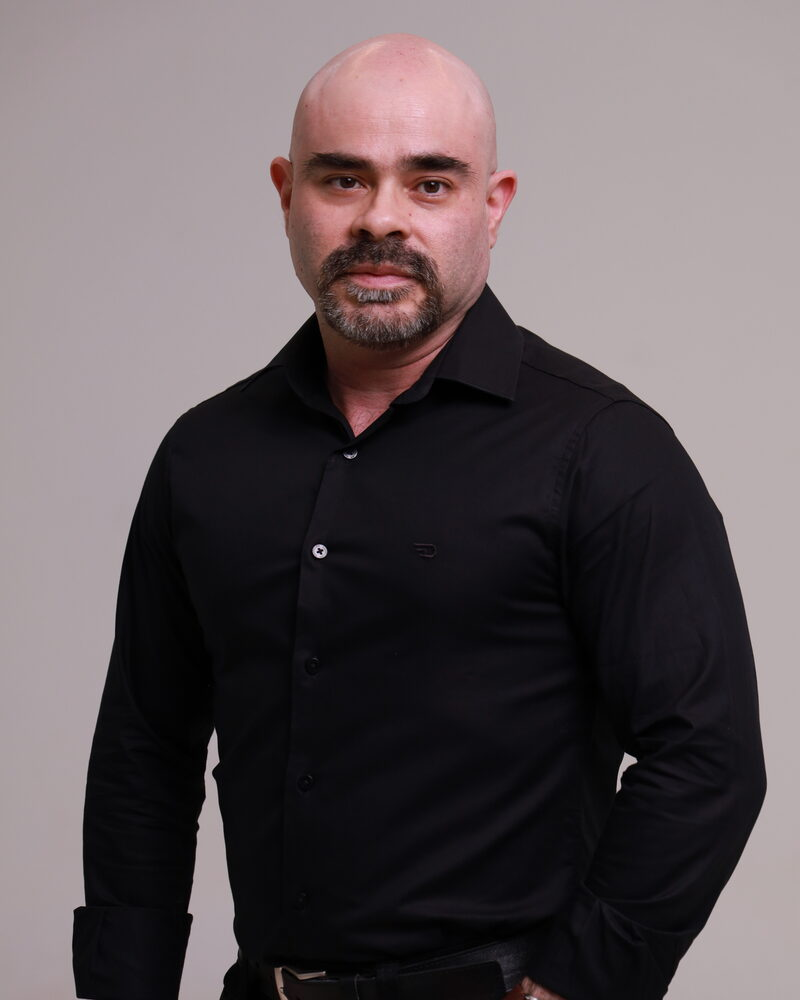
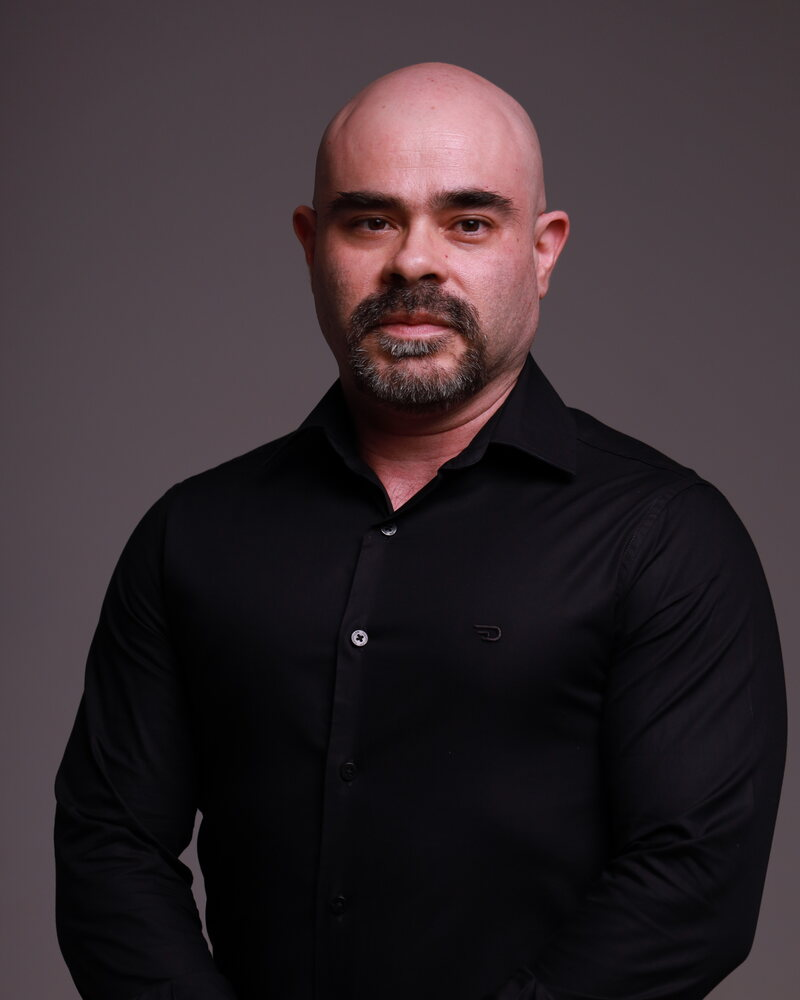
3 fotos distintas (hero 0005 / sobre 0012 / CTA 0043); degradê do CTA na seção fundindo na silhueta

diff --git a/style.css b/style.css
@@ -379,34 +379,31 @@ p{margin:0}
 
 /* SEÇÃO 8 — CTA final (Spotlight) ------------------------- */
 .finale{position:relative;isolation:isolate;overflow:hidden;color:var(--cream);
-  background:radial-gradient(120% 90% at 68% 28%,var(--green-800),var(--green-950) 72%);
+  background:radial-gradient(108% 125% at 82% 33%,#010302 0%,#05130e 35%,var(--green-950) 58%,var(--green-900) 100%);
   padding:clamp(70px,12vh,150px) 0 0}
-.finale__glow{position:absolute;left:42%;top:30%;width:80vw;max-width:760px;height:80vw;max-height:760px;
+.finale__glow{position:absolute;left:34%;top:30%;width:80vw;max-width:720px;height:80vw;max-height:720px;
   transform:translate(-50%,-50%);z-index:-1;
-  background:radial-gradient(circle,color-mix(in srgb,var(--gold-500) 22%,transparent),transparent 62%);
+  background:radial-gradient(circle,color-mix(in srgb,var(--gold-500) 20%,transparent),transparent 62%);
   filter:blur(10px);animation:glowPulse 7s ease-in-out infinite}
-.finale__rays{position:absolute;inset:0;width:100%;height:100%;color:var(--gold-400);opacity:.1;z-index:-1}
-.finale__inner{display:grid;grid-template-columns:1.05fr .82fr;gap:clamp(24px,5vw,56px);align-items:end;max-width:var(--maxw);margin-inline:auto;padding-inline:var(--gutter)}
+.finale__rays{position:absolute;inset:0;width:100%;height:100%;color:var(--gold-400);opacity:.08;z-index:-1}
+.finale__inner{display:grid;grid-template-columns:1.08fr .8fr;gap:clamp(24px,5vw,56px);align-items:end;max-width:var(--maxw);margin-inline:auto;padding-inline:var(--gutter)}
 .finale__text{display:flex;flex-direction:column;align-items:flex-start;gap:1.05rem;max-width:34ch;padding-bottom:clamp(72px,12vh,140px)}
 .finale h2{font-size:clamp(2.1rem,4.5vw,3.5rem);font-weight:480;line-height:1.05;margin:.2rem 0}
 .finale h2 em{font-style:italic;color:var(--gold-400)}
 .finale p{font-size:1.08rem;color:color-mix(in srgb,var(--cream) 82%,transparent);max-width:42ch}
 .finale__micro{font-size:.9rem;color:color-mix(in srgb,var(--cream) 66%,transparent)}
-.finale__photo{position:relative;margin:0;align-self:end;justify-self:center;width:100%;max-width:430px}
-.finale__photo img{display:block;width:100%;height:auto}
-.finale__photo::after{content:"";position:absolute;inset:0;pointer-events:none;
-  background:
-    linear-gradient(to top,var(--green-950) 1%,transparent 46%),
-    linear-gradient(to right,var(--green-950),transparent 34%),
-    linear-gradient(to bottom,color-mix(in srgb,var(--green-950) 88%,transparent),transparent 16%),
-    linear-gradient(to left,color-mix(in srgb,var(--green-950) 72%,transparent),transparent 14%)}
+.finale__photo{position:relative;margin:0;align-self:end;justify-self:center;width:100%;max-width:450px}
+.finale__photo img{display:block;width:100%;height:auto;
+  -webkit-mask-image:linear-gradient(to bottom,transparent 0%,#000 7%,#000 55%,transparent 90%);
+  mask-image:linear-gradient(to bottom,transparent 0%,#000 7%,#000 55%,transparent 90%)}
 .btn--lg{padding:1.2rem 2.3rem;font-size:1.1rem}
 @media (max-width:760px){
+  .finale{background:radial-gradient(150% 86% at 50% 84%,#010302 0%,#05130e 34%,var(--green-950) 60%,var(--green-900) 100%)}
   .finale__inner{grid-template-columns:1fr;gap:0}
   .finale__text{align-items:center;text-align:center;max-width:none;padding-bottom:clamp(28px,5vh,46px)}
   .finale__text .kicker::before{display:none}
   .finale p{margin-inline:auto}
-  .finale__photo{justify-self:center;max-width:300px}
+  .finale__photo{justify-self:center;max-width:320px}
 }
 
 /* FOOTER -------------------------------------------------- */

diff --git a/index.html b/index.html
@@ -24,7 +24,7 @@ j=d.createElement(s),dl=l!='dataLayer'?'&l='+l:'';j.async=true;j.src=
 <link rel="preconnect" href="https://fonts.gstatic.com" crossorigin>
 <link href="https://fonts.googleapis.com/css2?family=Fraunces:ital,opsz,wght@0,9..144,400..600;1,9..144,400..600&family=DM+Sans:opsz,wght@9..40,400..700&display=swap" rel="stylesheet">
 
-<link rel="stylesheet" href="/style.css?v=6">
+<link rel="stylesheet" href="/style.css?v=7">
 </head>
 <body>
 <!-- Google Tag Manager (noscript) -->

diff --git a/politica-de-privacidade/index.html b/politica-de-privacidade/index.html
@@ -18,7 +18,7 @@ j=d.createElement(s),dl=l!='dataLayer'?'&l='+l:'';j.async=true;j.src=
 <link rel="preconnect" href="https://fonts.googleapis.com">
 <link rel="preconnect" href="https://fonts.gstatic.com" crossorigin>
 <link href="https://fonts.googleapis.com/css2?family=Fraunces:ital,opsz,wght@0,9..144,400..600;1,9..144,400..600&family=DM+Sans:opsz,wght@9..40,400..700&display=swap" rel="stylesheet">
-<link rel="stylesheet" href="/style.css?v=6">
+<link rel="stylesheet" href="/style.css?v=7">
 <style>
   .legal{max-width:760px;margin-inline:auto;padding:clamp(110px,16vh,160px) var(--gutter) 80px;color:var(--paper-text)}
   .legal a.back{display:inline-flex;align-items:center;gap:.5em;color:var(--gold-700);font-weight:600;margin-bottom:1.4rem}